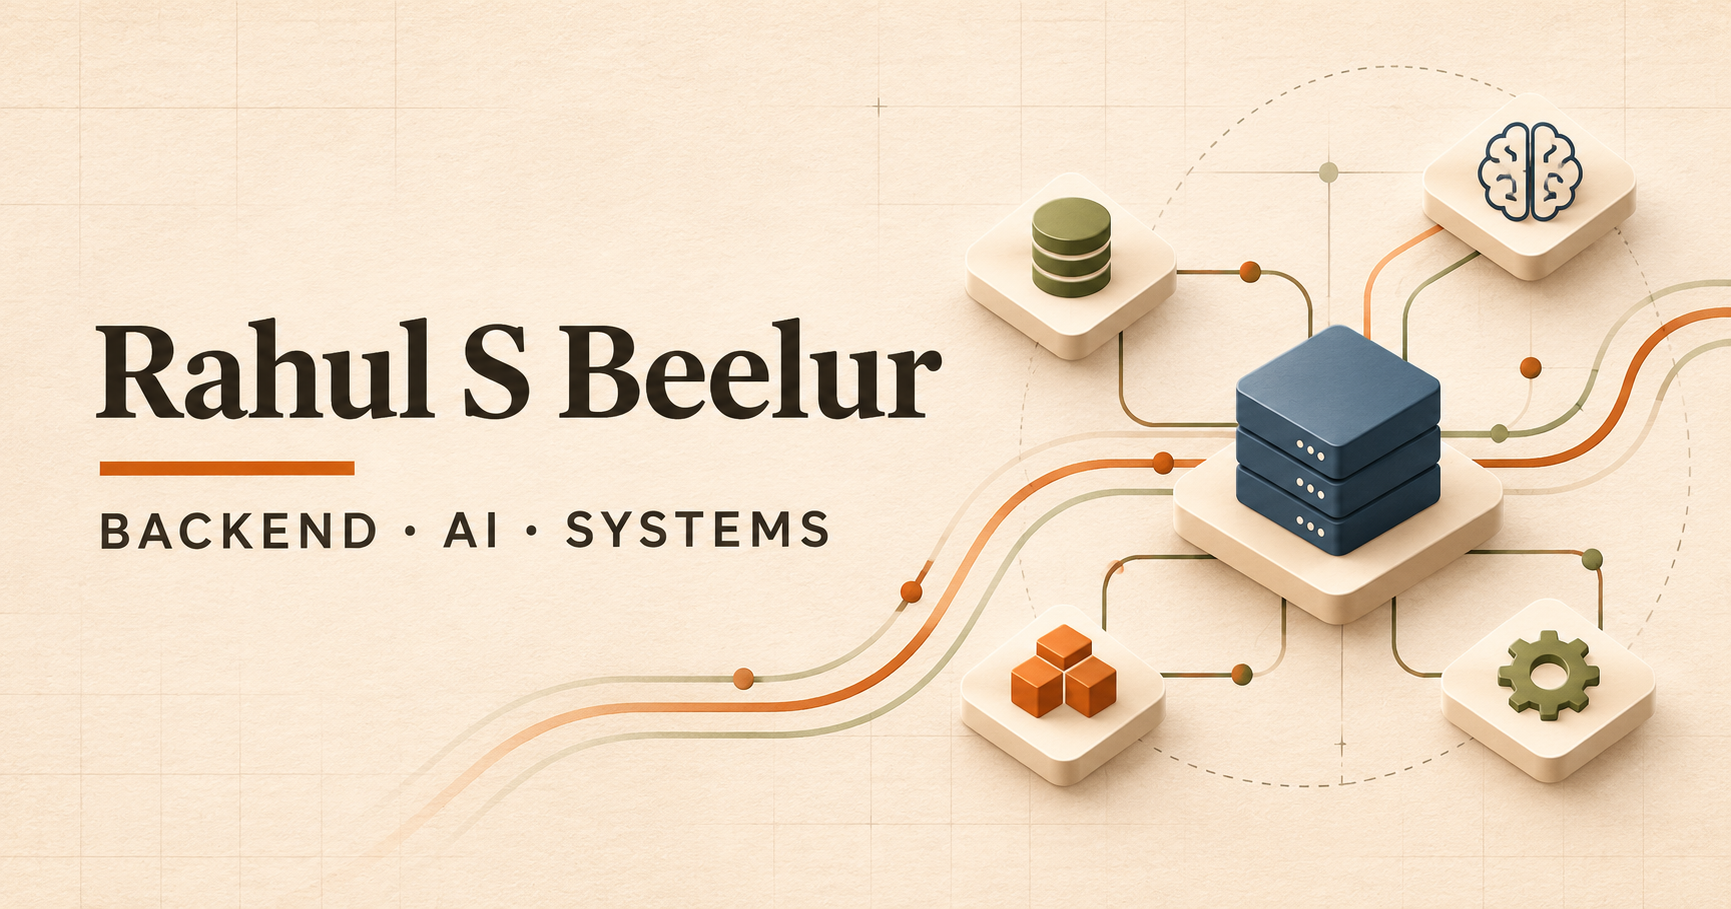
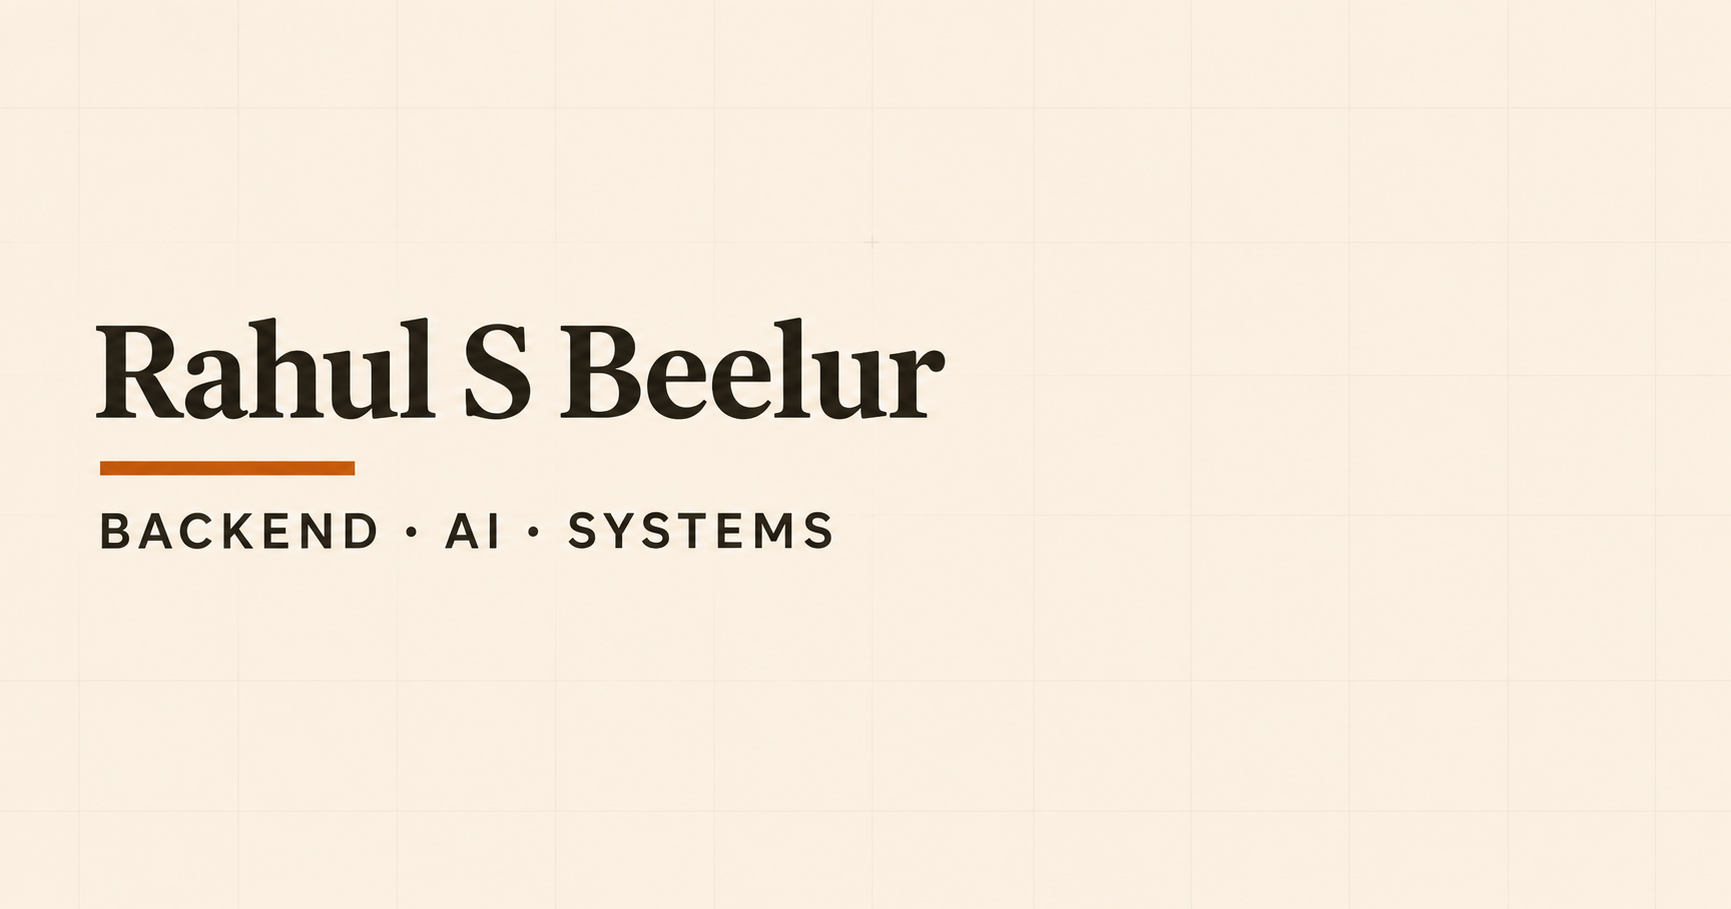
Simplify social preview and use Vercel URL

diff --git a/modules/common/components/SEO.tsx b/modules/common/components/SEO.tsx
@@ -1,7 +1,9 @@
 import Head from 'next/head';
 import { personDetails } from '../data/person';
 
-const siteUrl = 'https://rahulsbeelur.com';
+const siteUrl =
+    process.env.NEXT_PUBLIC_SITE_URL ??
+    'https://rahul-s-beelur-rahul-s-beelurs-projects.vercel.app';
 const defaultDescription =
     'Rahul S Beelur builds dependable backend and AI systems and shares the work as it happens.';
 const defaultImagePath = '/social-preview.png';

diff --git a/README.md b/README.md
@@ -4,7 +4,7 @@ Personal Website using NextJS
 
 ## Deployed link
 
-[rahulsbeelur](https://rahulsbeelur.com/)
+[rahulsbeelur](https://rahul-s-beelur-rahul-s-beelurs-projects.vercel.app/)
 
 This is a Next.js project bootstrapped with create-next-app.
 
